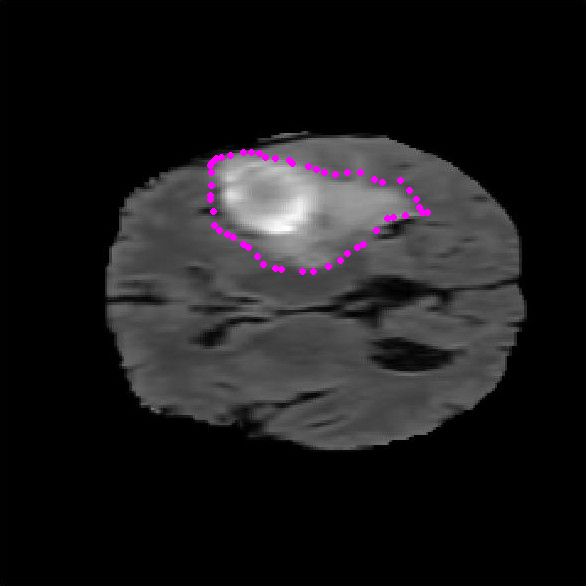
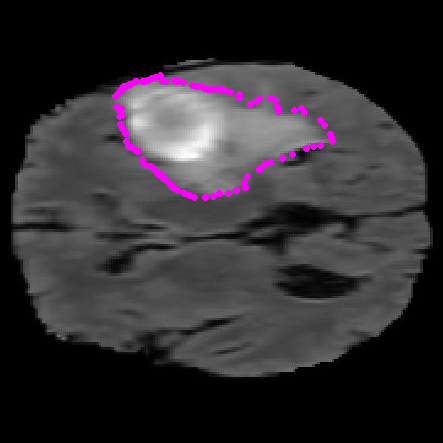
issue #14 , fixed the contour evolution

diff --git a/mainContour.py b/mainContour.py
@@ -236,7 +236,7 @@ def getExternalEnergy(img,imgName):
 	# matrix == image size : represents energy value at each position pixel
 	#================================================
 	# Lets smooth the image using gaussian filter
-	gausImg = scipy.ndimage.filters.gaussian_filter(img, sigma=0.5)
+	gausImg = scipy.ndimage.filters.gaussian_filter(img, sigma= 3)
 	# Helper link:
 	# http://stackoverflow.com/questions/7185655/applying-the-sobel-filter-using-scipy
 	# lets calculate gradient in X direction 
@@ -248,31 +248,46 @@ def getExternalEnergy(img,imgName):
 	mag *= 255.0 / numpy.max(mag)  # normalize (Q&D)
 	#scipy.misc.imsave('sobel-0.jpg', mag)
 	saveimage(mag,'{0}-sobel.png'.format(imgName))
-	return mag
+	return -mag
+# Functon that Calculate total energy
+def getTotaleEnergy(internal , external):
+	return (external + internal) 
 # Functon that update Contour points using energies
-def updateContour(colimg , greyimg ,imName, initcontour , exEnetgy , inEnergy):
-	while True:
+def updateContour(colimg ,imName, initcontour , exEnergy ,a,b):
+	I = drawcontour(colimg , initcontour,(255,0,255),"{0}-init contour".format(imName))
+	for iterate in range(0,2):
 		# view imput image
-		I = drawcontour(colimg , initcontour,(255,0,255),"{0}-init contour".format(imName))
 		newContour = []	# empty list carries the points of the new contour
 		updatedPoints = 0 # counter for points that changed from iteration to another
 		for i , p in enumerate(initcontour):	# loop on contour points 
 			currPoint = p
-			currImg = greyimg
-			currWindow = []		# empty window with pixel positions
-			currWindowEnergy = []		# empty window with pixel Energies
+			#print ("currPoint :",currPoint)
+			currWindowindex = []		# empty window with pixel positions
+			currWindowEnergy = []		# empty window with pixel Energies (external exnergy)
+			totalwindowEnergy =[]		# empty window with total energy 
 			for w in range(-4,5):	# loop to fill the current window
-				currWindow.append(currImg[i+w])
+				xtemp = currPoint[0]+w # index of current contour point + window index
+				ytemp =	currPoint[1]+w
+				currWindowindex.append((xtemp,ytemp)) # append position of 1st window on image
+				currWindowEnergy.append(exEnergy[xtemp,ytemp]) # append value of the curr pixel energy
+				#print ("currWindowindex [-1]:",currWindowindex[-1])
+			#break
 			for pixel in range(0,9): # loop to calculate energy at each pixel
+				# calculate internal energy of contour accourding to the new point
+				currPointContour = (currWindowindex[pixel][0] ,currWindowindex[pixel][1]) # get new contour point position
+				currContour = initcontour # copy main contour in new one
+				currContour[i] = currPointContour # update contour copy with the moved point 
+				currIntEnergy = getinternalEnergy(currContour , a ,b)
 				# currPixelEnergy = External energy + Internal energy
-				currPixelEnergy = exEnetgy[currWindow[pixel][0],currWindow[pixel][1]] + inEnergy
-				#print("currWindow x :", currWindow[0][0])
-				#print("currWindow y :", currWindow[0][1])
-				#print ("exEnetgy :", exEnetgy[currWindow[pixel][0],currWindow[pixel][1]])
-				#print("inEnergy[i] :",inEnergy) 
-				currWindowEnergy.append(currPixelEnergy)
-			#print("currWindowEnergy :",currWindowEnergy)	
-			#print("Lenght currWindowEnergy :",len(currWindowEnergy))	
+				currPixelEnergy = getTotaleEnergy( currIntEnergy , currWindowEnergy[pixel])
+				#print ("exEnergy :", currWindowEnergy[pixel])
+				#print("inEnergy :",currIntEnergy) 
+				#print("currPixelEnergy :",currPixelEnergy) 
+				totalwindowEnergy.append(currPixelEnergy)
+				#print("totalwindowEnergy :",totalwindowEnergy[-1])	
+				#break
+				#break	
+			#print("Lenght totalwindowEnergy :",len(totalwindowEnergy))
 			#----------------------------------------------------
 			# Now lets check where is minmum energy in the window to move the point
 			minEnrgyPixel = min(currWindowEnergy)
@@ -284,19 +299,21 @@ def updateContour(colimg , greyimg ,imName, initcontour , exEnetgy , inEnergy):
 			#print("window x of min energy :" , currWindow[indexMinEnrg][0])
 			#print("window y of min energy :" , currWindow[indexMinEnrg][1])
 			if (indexMinEnrg!= 4): # if the min energy is not at the middle of the window
-				newPointContour = (currWindow[indexMinEnrg][0],currWindow[indexMinEnrg][1])
+				newPointContour = (currWindowindex[indexMinEnrg][0],currWindowindex[indexMinEnrg][1])
 				newContour.append(newPointContour) # move point to new location
 				updatedPoints = updatedPoints +  1 	# increment counter
 			else:
 				newContour.append(currPoint) # keep point as it is
+		print("Total number of updated points :" , updatedPoints)
+		iterate +=1
 		#Check changes in contour points
 		#for u in range(len(initcontour)):
 		#	print (" old point at {0}:".format(u) , initcontour[u])
 		#	print (" new point :" , newContour[u])
-		print("Total number of updated points :" , updatedPoints)
-		newimg = drawcontour(colimg , newContour,(255,0,0),"{0}-updated contour".format(imName))
-		if updatedPoints < 10:
-			break
+			#break
+		#if updatedPoints < 10:
+		#	break
+	newimg = drawcontour(colimg , newContour,(255,0,0),"{0}-updated contour".format(imName))
 	saveimage(newimg , "{0}-updated-Contour.png".format(imName))
 	return newContour , updatedPoints
 
@@ -315,22 +332,23 @@ def main():
 	#sample3Contour = loadinitContour('init-1.txt')
 	print("Initial contour points loaded from file : DONE")
 	####	CALCULATE ENERGYIES	 #### 
-	alpha = 0.3 # Elasticity coeffecient
-	beta = 10 # Curveture coeffcient
+	alpha = 0.5 # Elasticity coeffecient
+	beta = 0.5 # Curveture coeffcient
 	# Calculate internal energy 
-	sample1_InternalEnergy = getinternalEnergy(sample1Contour,alpha, beta)
+	#sample1_InternalEnergy = getinternalEnergy(sample1Contour,alpha, beta)
 	#print("sample3_InternalEnergy :",sample1_InternalEnergy)
 	#sample3_InternalEnergy = getinternalEnergy(sample3Contour,alpha, beta)
 	print ("Calculate internal Energy of contour : DONE")
 	# ---------------------------------
 	# Calculate External Energy (Image energy)
-	sample1_ExternalEnergy = getExternalEnergy(greyimgStack[0],nameImg[0])  
+	sample1_ExternalEnergy = getExternalEnergy(greyimgStack[0],nameImg[0])
+	#print ('sample1_ExternalEnergy :', sample1_ExternalEnergy[80,:])  
 	#pen_ExternalEnergy = getExternalEnergy(greyimgStack[1],nameImg[1])  
 	print ("Calculate External Energy of contour : DONE")
 	# ---------------------------------
 	####	UPDATE	CONTOUR	POINTS 	####
-	sample1_updatedContour , sample1_updatedNumb = updateContour(colorimgStack[0],greyimgStack[0],nameImg[0],
-												sample1Contour,sample1_ExternalEnergy,sample1_InternalEnergy)  
+	sample1_updatedContour , sample1_updatedNumb = updateContour(colorimgStack[0],nameImg[0],
+												sample1Contour,sample1_ExternalEnergy ,alpha,beta)  
 	#sample3_updatedContour , sample3_updatedNumb = updateContour(colorimgStack[1],greyimgStack[1],nameImg[1],
 	#											sample3Contour,sample3_ExternalEnergy,sample3_InternalEnergy)  
 	
